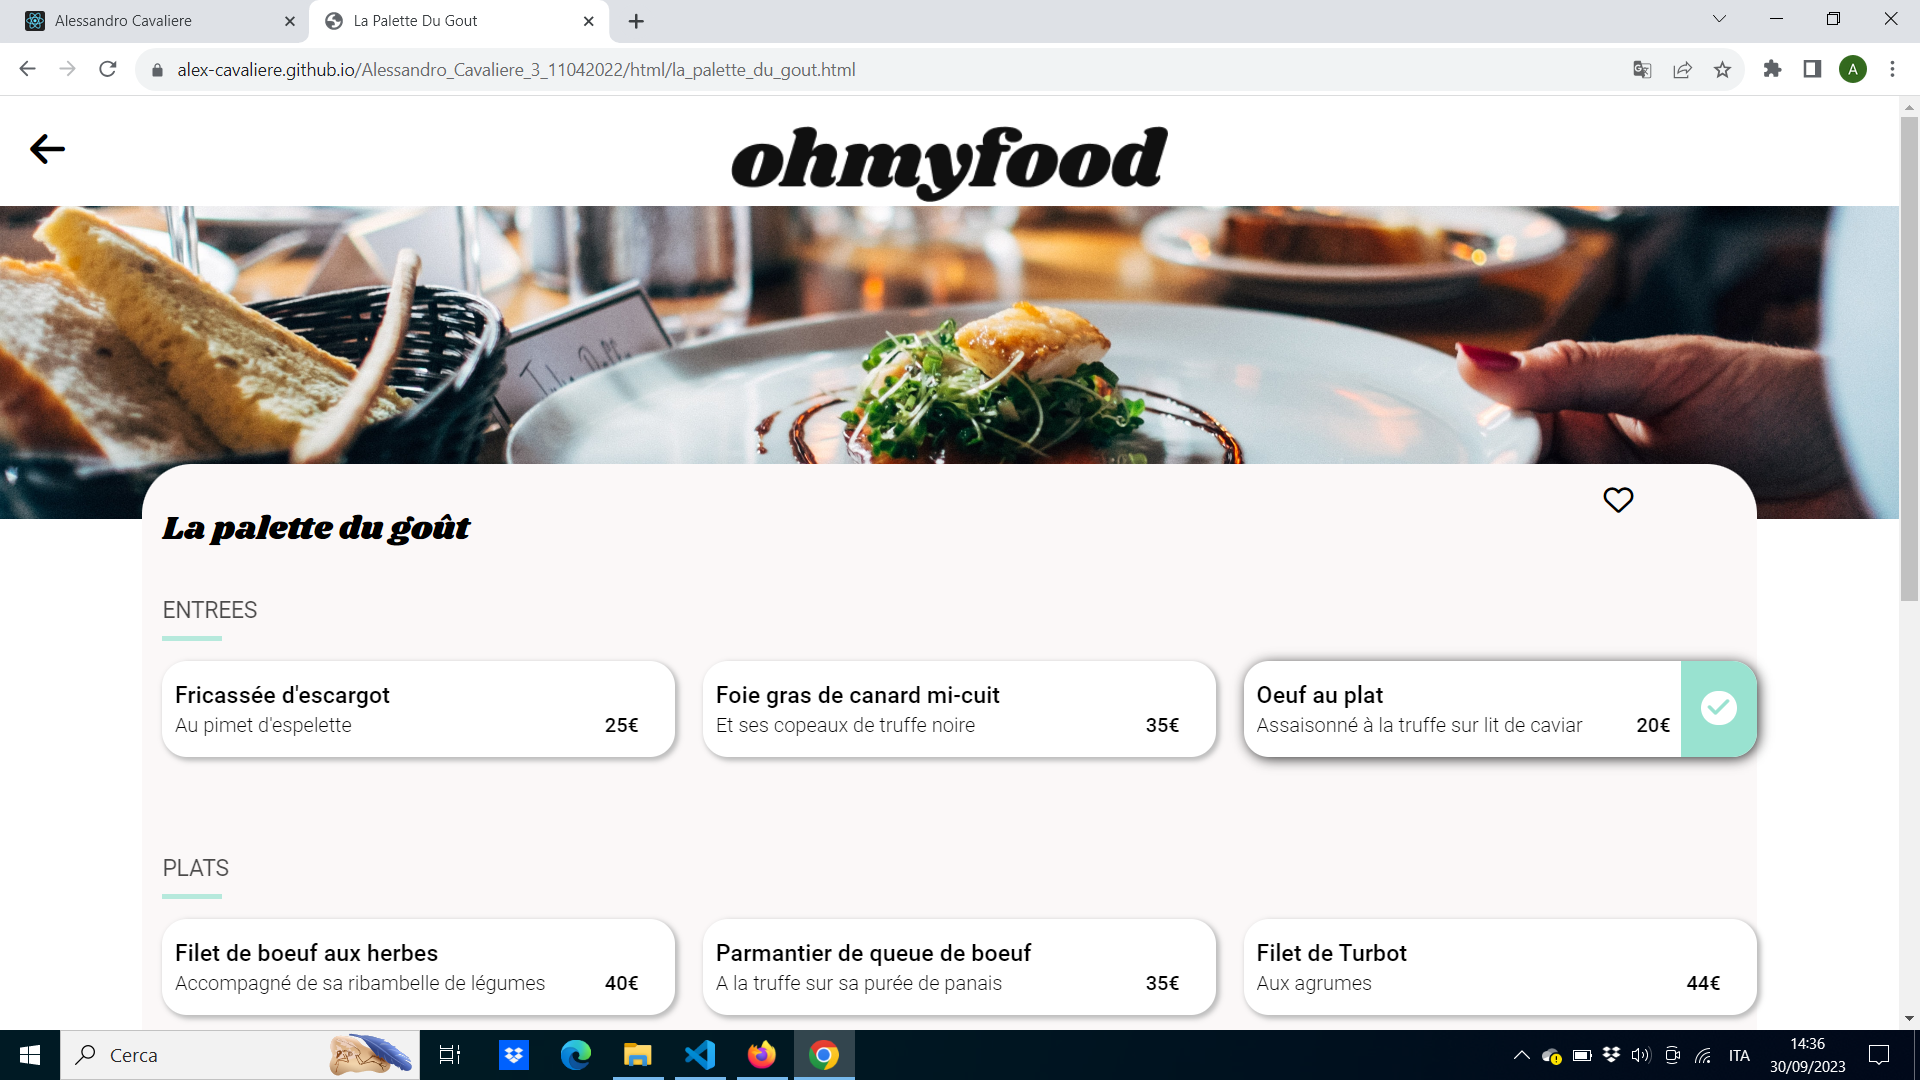
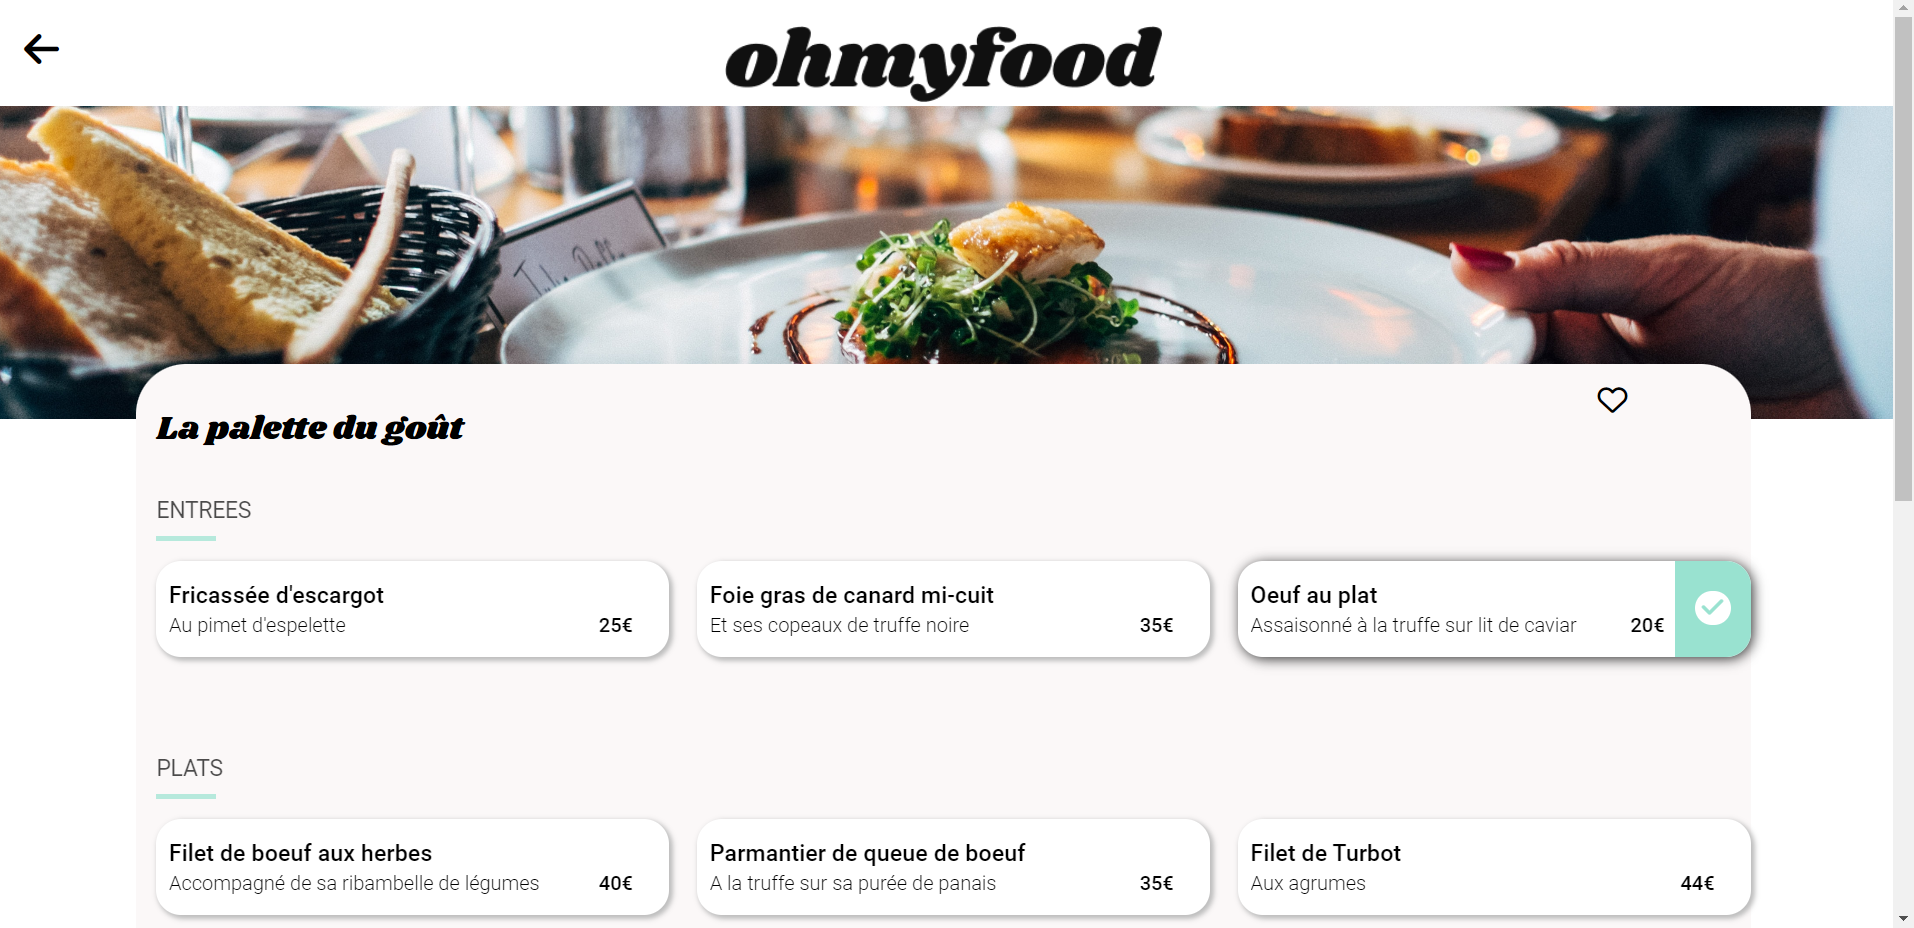
styled components

diff --git a/src/scss/style.scss b/src/scss/style.scss
@@ -109,16 +109,17 @@ section{
                 }
                 & img{
                     width: 100%;
-                    height: 81%;
+                    border-top: 1px solid rgba(#051e4489, 0.1);
                     border-bottom: 1px solid #051e4489;
                     border-radius: 0 0 20px 20px;
-                    object-fit: cover;
+                    object-fit: contain;
                 }
                 & p{
                     position: absolute;
                     bottom: 0;
                     margin: 0;
-                    background: linear-gradient(to bottom, #00000051, #00000000);
+                    background: linear-gradient(to bottom, #000000c4, #00000070);
+                    color: rgba(245, 245, 245, 0.922);
                     box-shadow: 0px -5px 3px #00000051;
                     border-radius: 0 0 20px 20px;
                     display: -webkit-box;

diff --git a/src/css/style.css b/src/css/style.css
@@ -114,16 +114,17 @@ section article .card-wrapper .card:visited {
 }
 section article .card-wrapper .card img {
   width: 100%;
-  height: 81%;
+  border-top: 1px solid rgba(5, 30, 68, 0.1);
   border-bottom: 1px solid rgba(5, 30, 68, 0.537254902);
   border-radius: 0 0 20px 20px;
-  object-fit: cover;
+  object-fit: contain;
 }
 section article .card-wrapper .card p {
   position: absolute;
   bottom: 0;
   margin: 0;
-  background: linear-gradient(to bottom, rgba(0, 0, 0, 0.3176470588), rgba(0, 0, 0, 0));
+  background: linear-gradient(to bottom, rgba(0, 0, 0, 0.768627451), rgba(0, 0, 0, 0.4392156863));
+  color: rgba(245, 245, 245, 0.922);
   box-shadow: 0px -5px 3px rgba(0, 0, 0, 0.3176470588);
   border-radius: 0 0 20px 20px;
   display: -webkit-box;

diff --git a/src/components/Card.js b/src/components/Card.js
@@ -28,7 +28,7 @@ function Card(props) {
         <div className='card'>
             <a href={url} target='_blank' rel="noreferrer">
                 <h3>{title}</h3>
-                <img src={provaImg} alt='foto'/>
+                <img src={imgUrl} alt='foto'/>
             </a>
             <p className={`description-${index} ${isOpen ? 'open' : 'closed'}`} onClick={(e) => showCard(e.target)}>{description}</p>
         </div>
